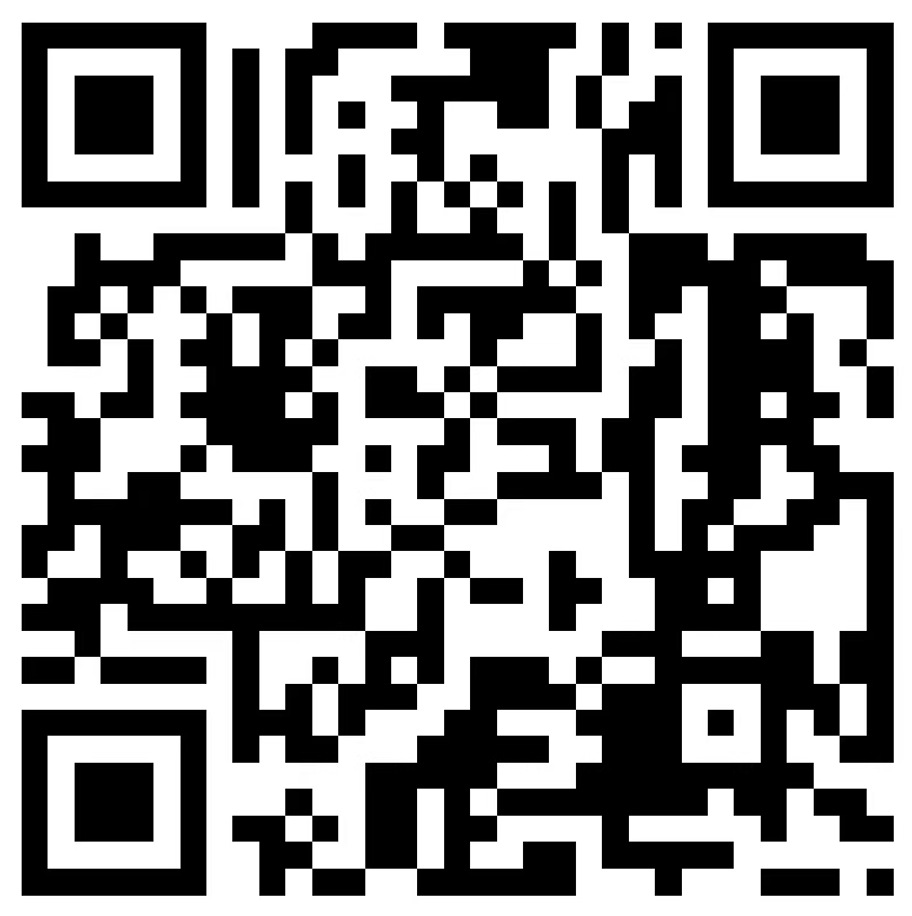
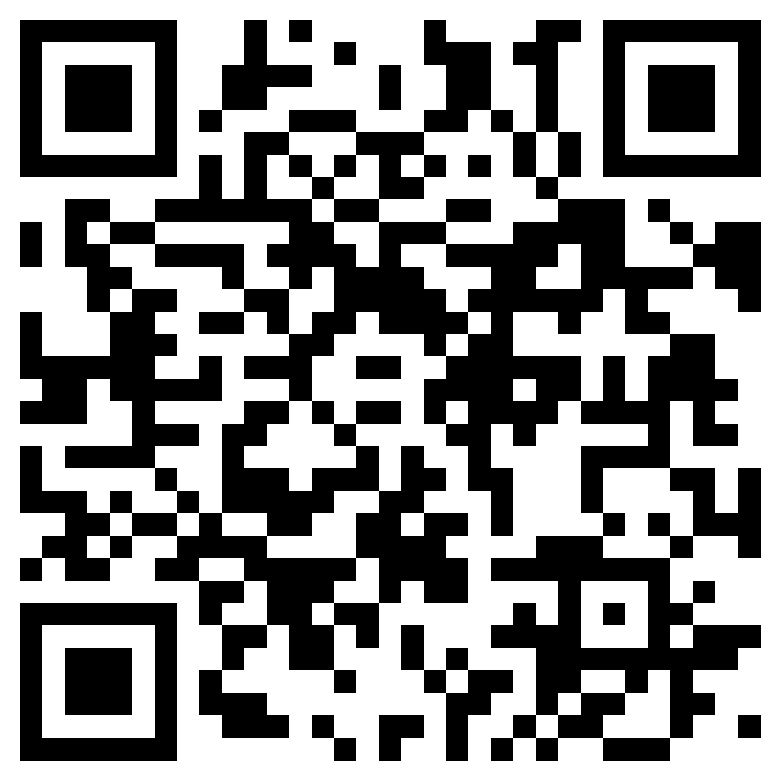
Update Dongguan and Yuehua order QR codes and emblems

diff --git a/app/page.tsx b/app/page.tsx
@@ -25,7 +25,7 @@ type Club = { school: string; club: string; logo?: string; square?: boolean; fea
 const clubs: Club[] = [
   { school: '东莞市万江中学', club: '江风文学社', logo: 'jiangfeng.png' },
   { school: '东莞市第七高级中学', club: '秋枫文学社', logo: 'qiufeng.png' },
-  { school: '东莞市海逸外国语学校', club: '海逸文学社', featured: true },
+  { school: '东莞市海逸外国语学校', club: '海逸文学社', logo: 'haiyi.png', featured: true },
   { school: '东莞理工学校', club: '竹韵诗词社' },
   { school: '东莞市石龙中学', club: '乳雁文学社' },
   { school: '东莞市南城开心实验学校', club: '52Herz文学社', logo: 'school-52.webp' },
@@ -61,7 +61,7 @@ const clubs: Club[] = [
   { school: '东莞市商业学校（莞城校区）', club: '玉鸣吟诵社' },
   { school: '东莞市东方明珠学校', club: '长庚文学社' },
   { school: '东莞市海德实验学校', club: '海燕文学社' },
-  { school: '东莞市弘林高级中学', club: '南亦书舍文学社', featured: true },
+  { school: '东莞市弘林高级中学', club: '南亦书舍文学社', logo: 'honglin.png', featured: true },
   { school: '东莞市松山湖莞美学校', club: '行知文学社', logo: 'xingzhi.png', featured: true },
   { school: '东莞市大岭山中学', club: '山青文学社', logo: 'shanqing.png', featured: true },
   { school: '东莞市嘉荣外国语学校', club: '嘉韵文学社', logo: 'jiayun.png', featured: true },
